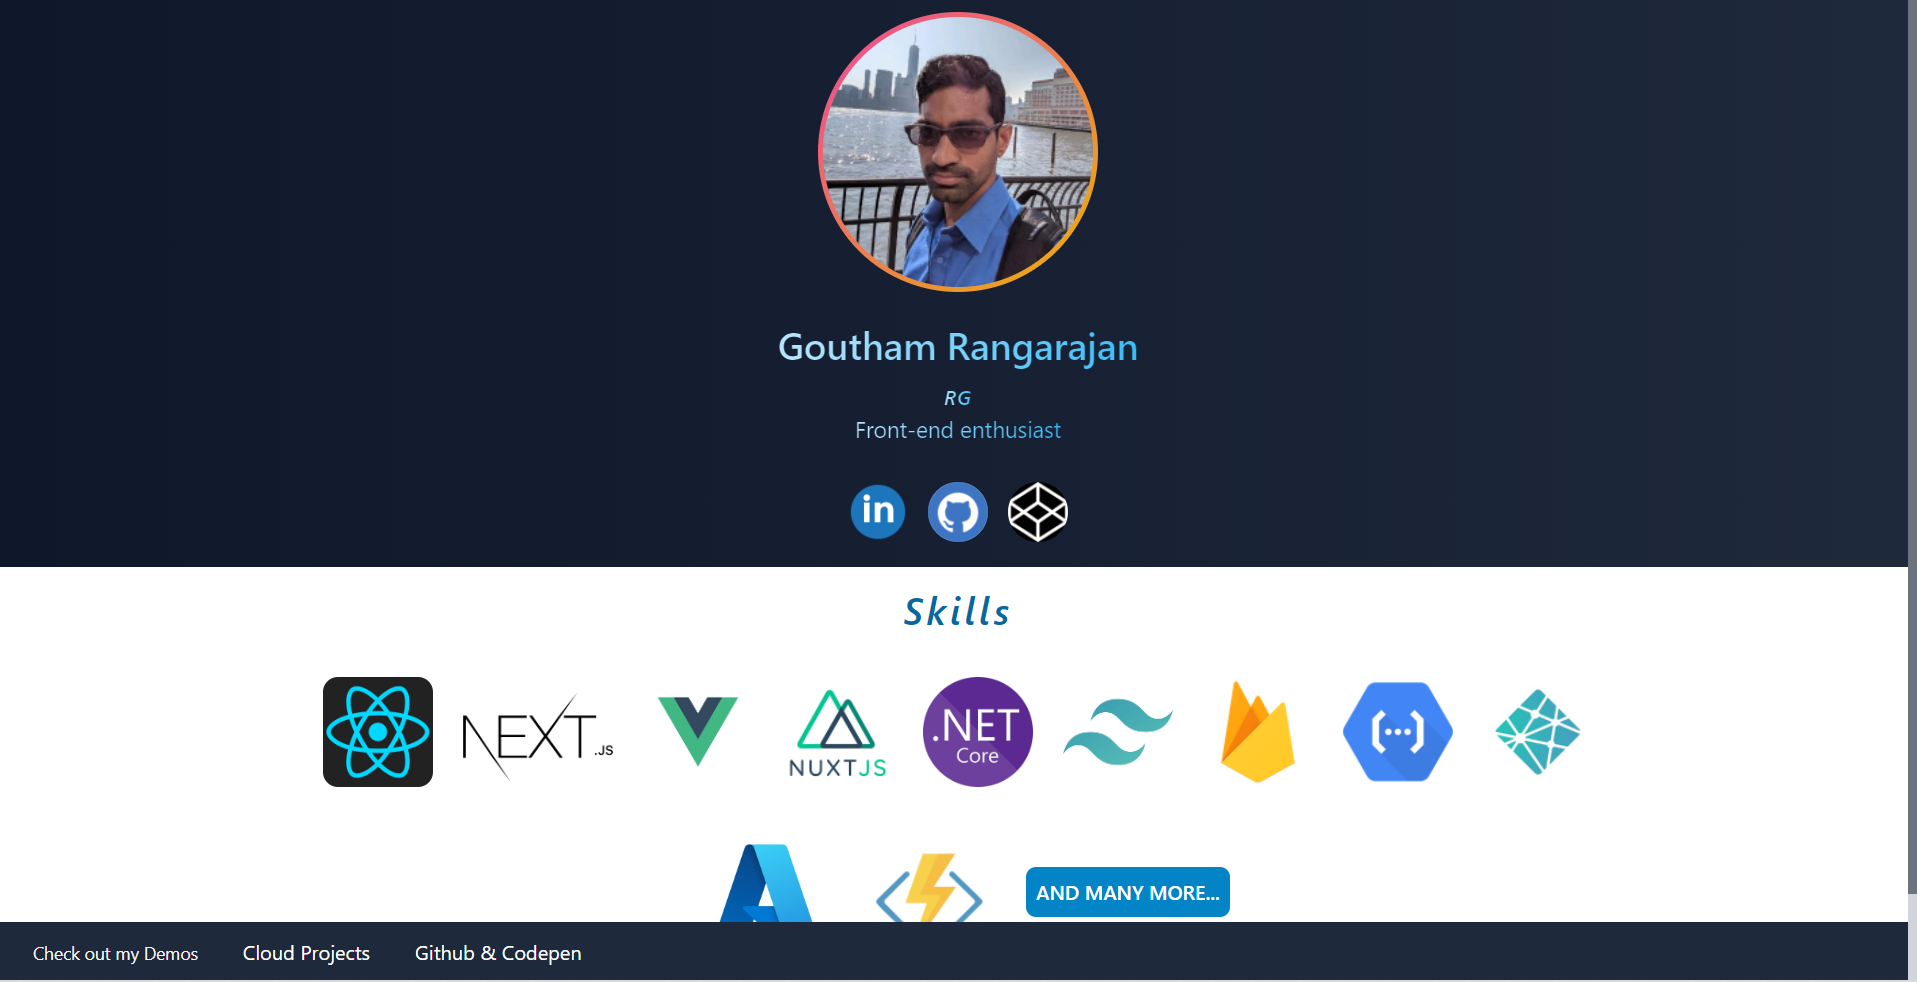
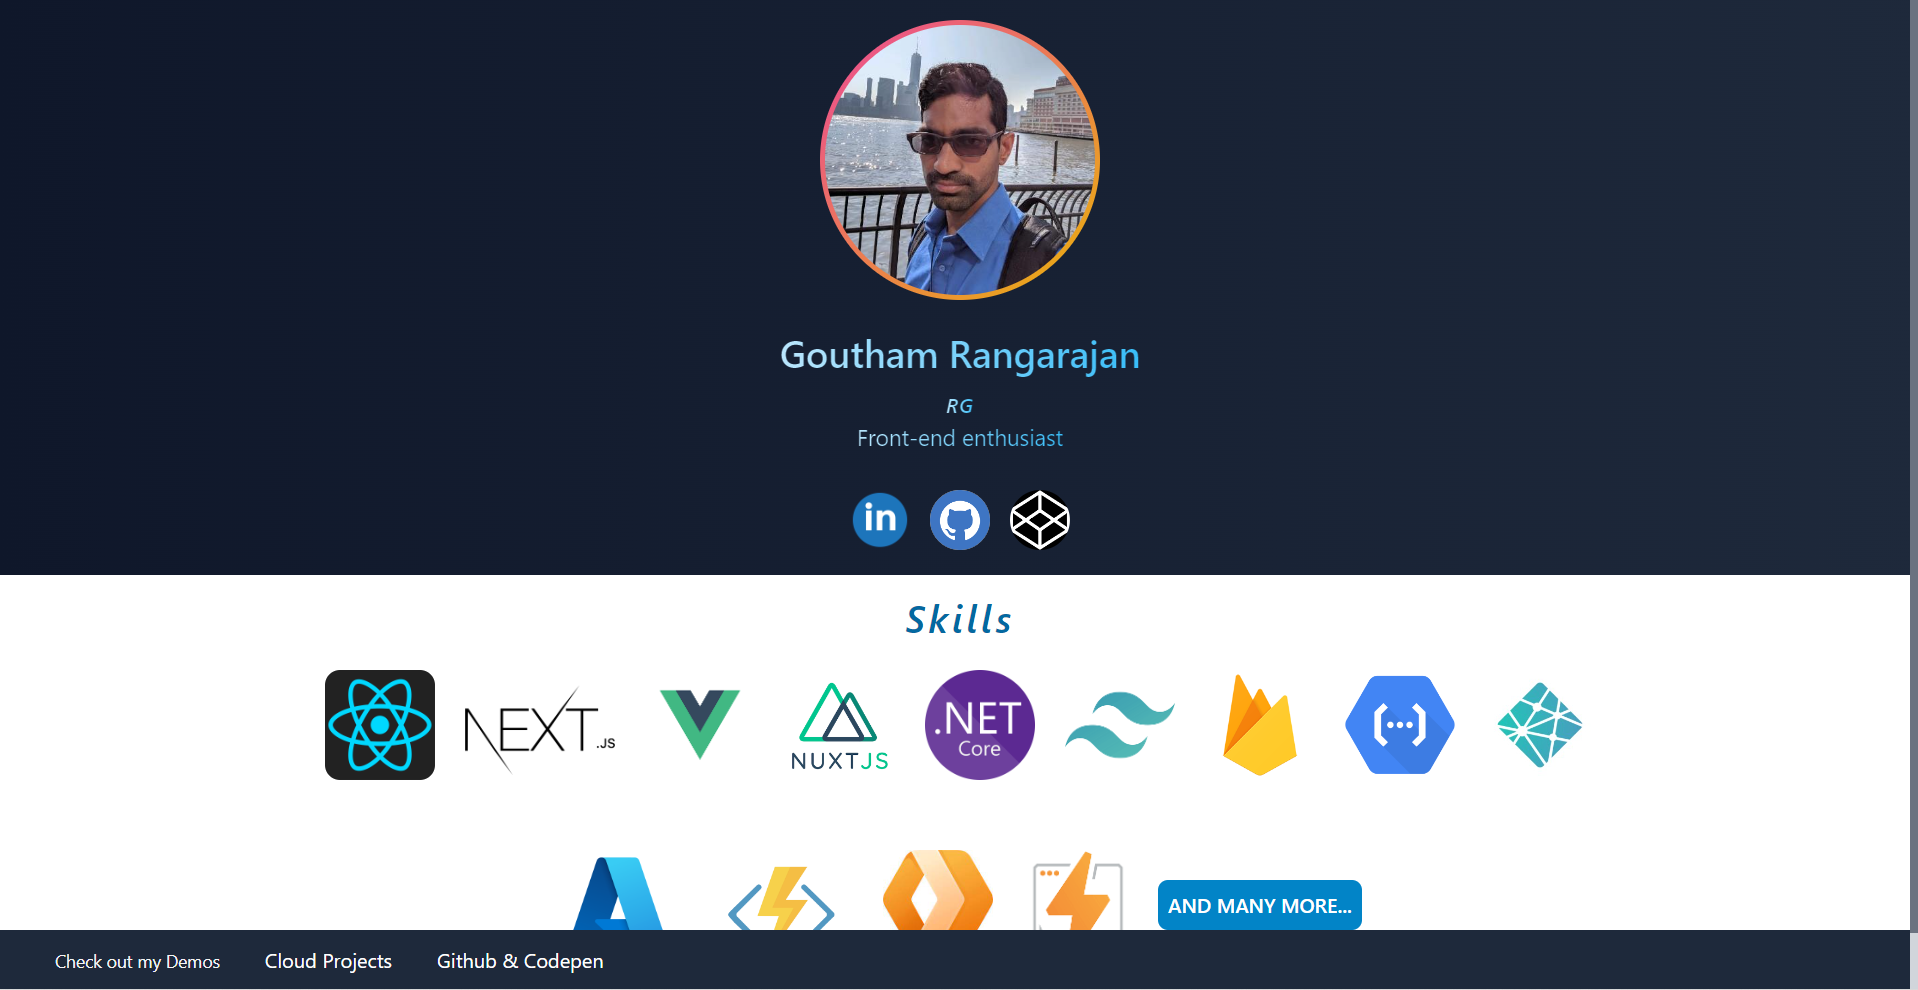
onboarded new cloud provider cloudflare

diff --git a/my-portfolio/pages/cloud/index.tsx b/my-portfolio/pages/cloud/index.tsx
@@ -54,7 +54,7 @@ export async function getStaticProps() {
         },
     };
 }
-function getConsolidatedData({ firebase, azure, netlify }: cloudType): consolidatedDataType[] {
+function getConsolidatedData({ firebase, azure, netlify, cloudflare }: cloudType): consolidatedDataType[] {
     let consolidated: Array<consolidatedDataType> = [];
     firebase.forEach(el => {
         if (el.imgSrc)
@@ -65,6 +65,18 @@ function getConsolidatedData({ firebase, azure, netlify }: cloudType): consolida
                     consolidated.push({
                         imgSrc: inEl.imgSrc, url: inEl.url || "", description: inEl.description || "",
                         title: "FIREBASE"
+                    })
+            })
+    });
+    cloudflare.forEach(el => {
+        if (el.imgSrc)
+            consolidated.push({ imgSrc: el.imgSrc, url: el.url || "", description: el.description || "", title: "CLOUDFLARE" });
+        if (el.other)
+            el.other.forEach(inEl => {
+                if (inEl.imgSrc)
+                    consolidated.push({
+                        imgSrc: inEl.imgSrc, url: inEl.url || "", description: inEl.description || "",
+                        title: "NETLIFY"
                     })
             })
     });

diff --git a/my-portfolio/components/Skills.tsx b/my-portfolio/components/Skills.tsx
@@ -8,7 +8,7 @@ const Skills: NextPage<skillsPropType> = ({ data }) => {
         <div className="w-full">
             <div className="w-full flex flex-col flex-shrink-0">
                 <span className="text-3xl text-sky-700 font-semibold italic w-full text-center tracking-widest">Skills</span>
-                <motion.div className="flex space-x-4 max-w-6xl flex-wrap mx-auto items-center justify-center py-4 px-6 flex-shrink-0"
+                <motion.div className="flex gap-4 max-w-6xl flex-wrap mx-auto items-center justify-center py-1 px-3 flex-shrink-0"
                     variants={staggerParent} initial="hidden" animate="show">
                     {data.map(el => (<motion.div className={`p-1 rounded-xl 
                                                 ${["NextJs", "Azure Functions"].includes(el.name) ? "pt-8 h-32 w-32" : "h-24 w-24"}`}

diff --git a/my-portfolio/components/CloudPage/SearchMenu.tsx b/my-portfolio/components/CloudPage/SearchMenu.tsx
@@ -8,7 +8,7 @@ const SearchMenu = () => {
             <div className="flex flex-col">
                 <span className="text-white font-semibold underline tracking-wider">Providers</span>
                 <div className="p-1 flex flex-col space-y-3">
-                    {["Firebase", "Netlify", "Azure"].map(el => (
+                    {["Firebase", "Netlify", "Cloudflare", "Azure"].map(el => (
                         <button className="transition duration-300  text-white py-1 px-3 rounded-md
                             hover:ring-2 hover:ring-white text-left w-32
                             focus:ring-2 focus:ring-white focus:ring-offset-2 focus:ring-offset-gray-700" key={el}

diff --git a/my-portfolio/models/dataType.ts b/my-portfolio/models/dataType.ts
@@ -29,6 +29,7 @@ export interface cloudType {
   firebase: cloudArrayType[];
   azure: cloudArrayType[];
   netlify: cloudArrayType[];
+  cloudflare: cloudArrayType[];
 }
 export interface cloudArrayType {
   order?: number;
